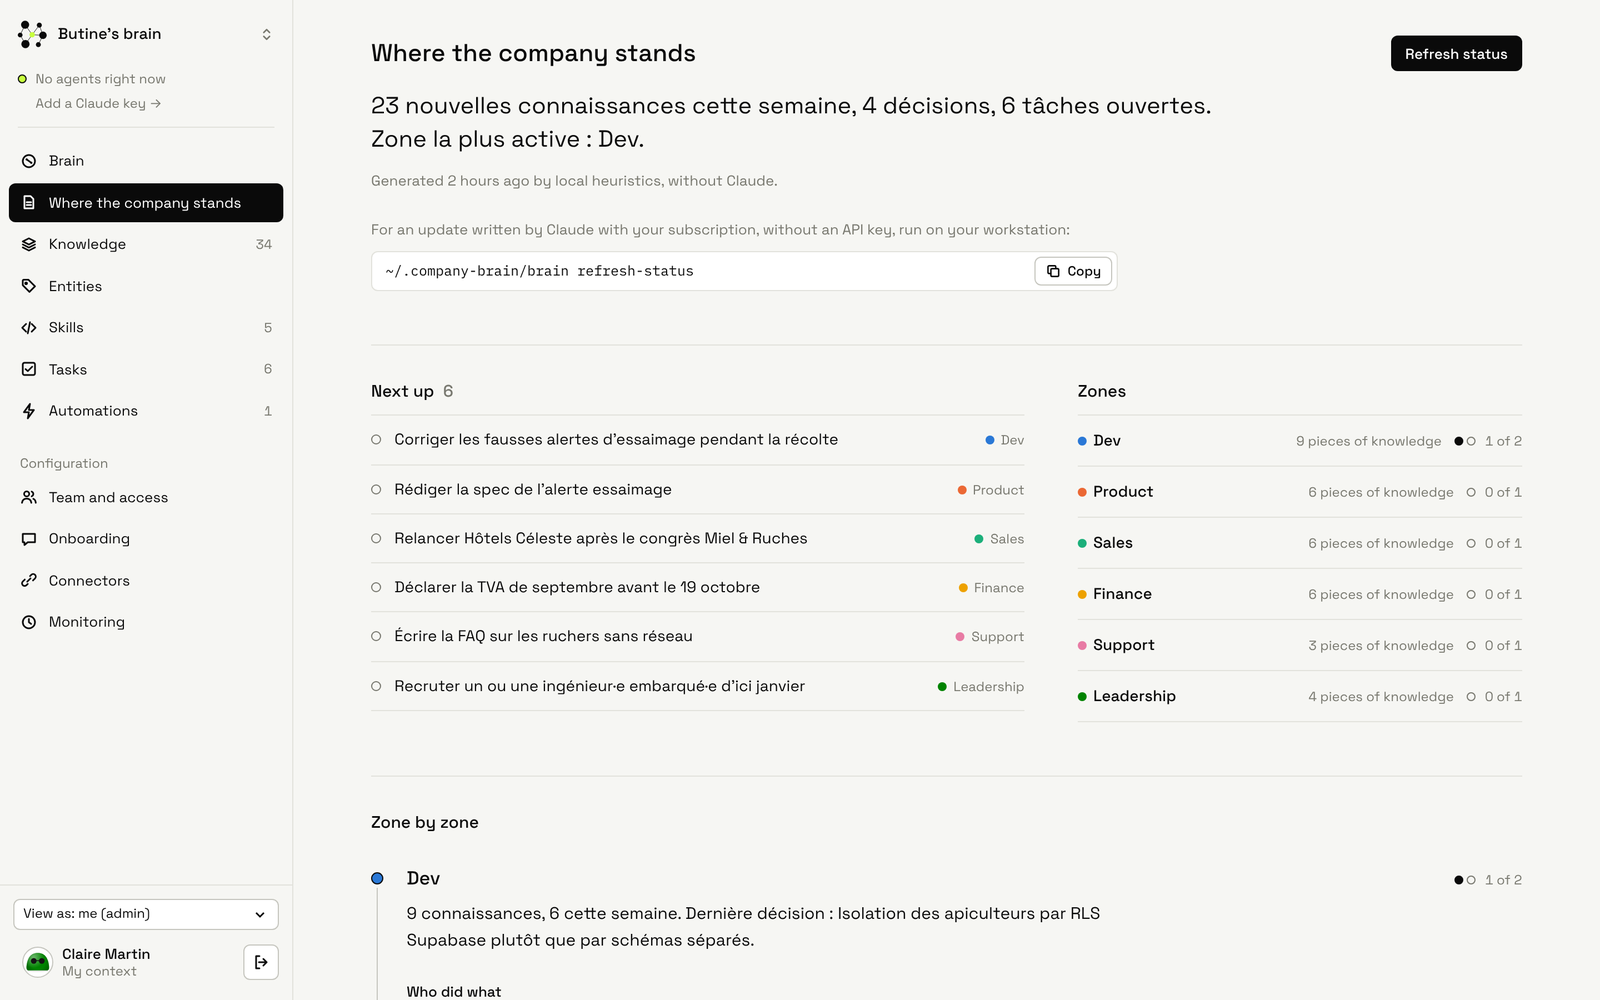
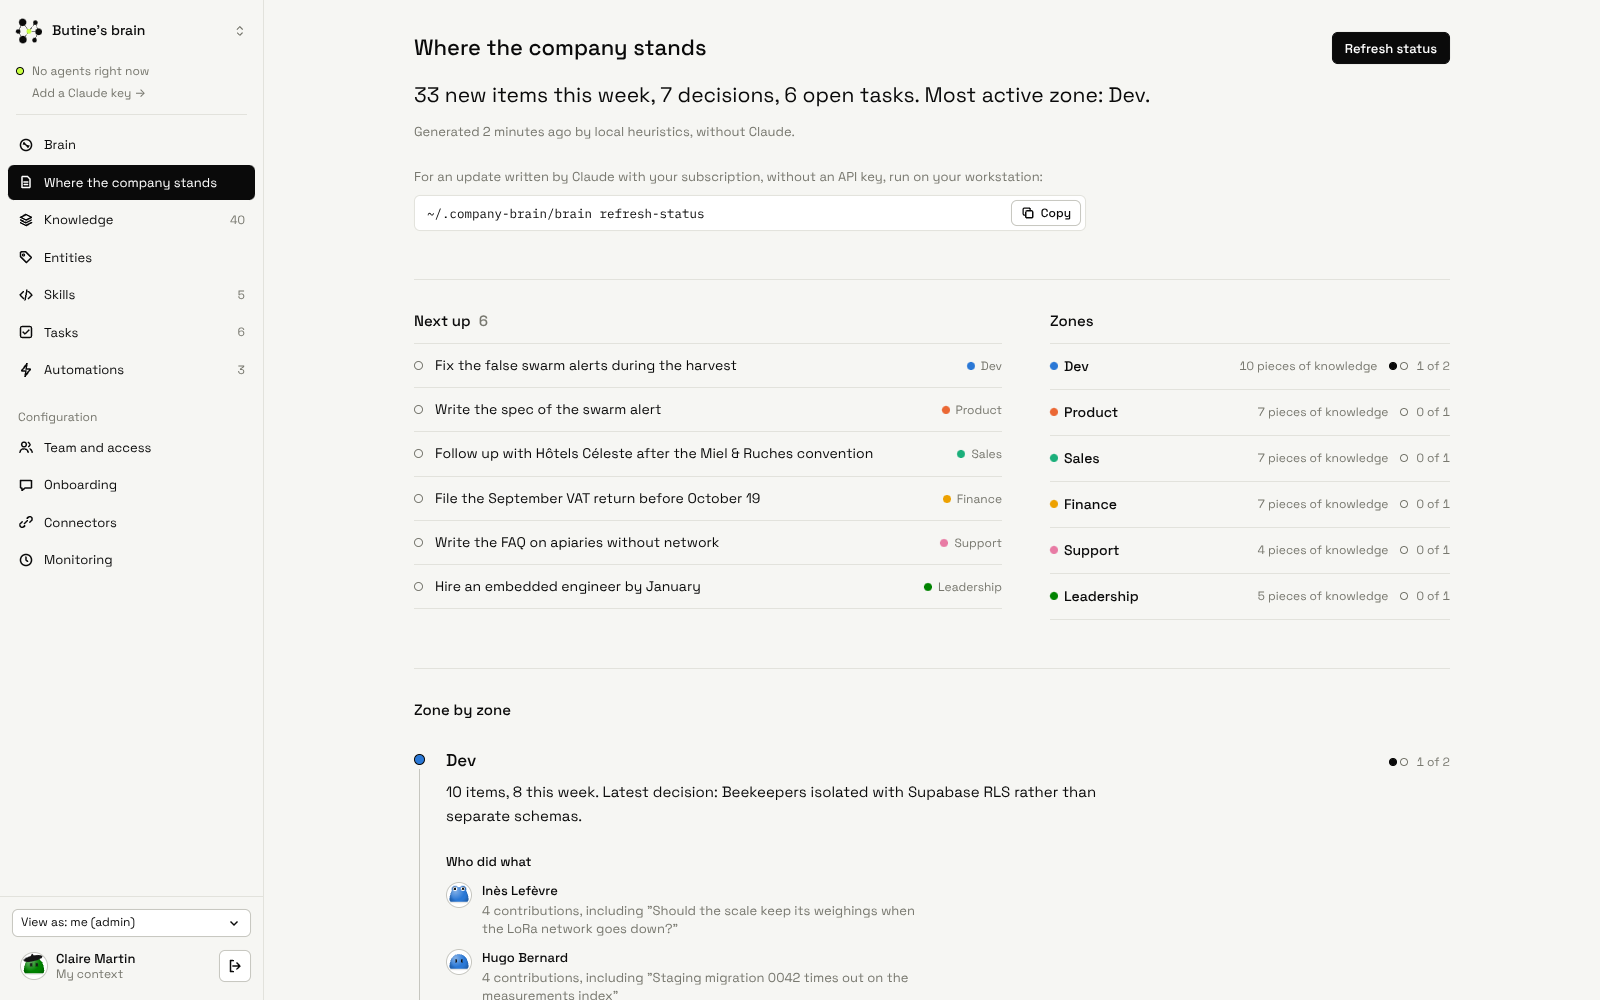
docs: captures du README en anglais, ce que seul Screenpipe voit, script de démo à jour
- Captures du README refaites sur le site en ligne, désormais en anglais : cerveau (fil avec
  « Meeting distilled » et « Screenpipe agent found »), état de l'entreprise, équipe ; nouvelle capture
  des connaissances venues de ChatGPT dans Chrome, d'un appel Zoom et de l'agent Screenpipe, sous le
  tableau « How Screenpipe is used ».
- demo/DEMO.md : l'étape 5 passait par la barre « Ask the brain », retirée du dashboard (#59) : la
  démonstration des accès par zone passe par la recherche de Knowledge en « View as: Jean-Marc ».
  Chiffres de l'automatisation alignés sur la démo en ligne.
- captures.mjs : plus d'étape « question » (même raison), capture des automatisations à la place de
  /activity, qui redirige vers le dashboard.
- core : « run it automatically monday to Friday » gardait la minuscule du français ; seul « Every »
  passe en minuscule dans la phrase (test ajouté).

Claude-Session: https://claude.ai/code/session_012cKbX3kEDKUmkkfcuhyrEf

diff --git a/packages/core/src/automation.ts b/packages/core/src/automation.ts
@@ -92,7 +92,7 @@ export function detectAutomations(
       title: `Automate "${truncate(sample, 70)}"`,
       description:
         `${person} runs this prompt ${plan.rhythm} around ${hhmm(med)} ` +
-        `(${list.length} times over ${days.length} days). Suggestion: run it automatically ${lowerFirst(plan.schedule)} ` +
+        `(${list.length} times over ${days.length} days). Suggestion: run it automatically ${inSentence(plan.schedule)} ` +
         `and have the result waiting when they arrive, to free up the start of their day.`,
       schedule: plan.schedule,
       evidence: { occurrences: list.length, days: days.length, sample: truncate(sample, 200), times: days.map((d) => hhmm(d.minutes)) },
@@ -105,9 +105,9 @@ export function detectAutomations(
 
 const WEEKDAYS = ["Sunday", "Monday", "Tuesday", "Wednesday", "Thursday", "Friday", "Saturday"]
 
-/** "Every Monday at 09:00" → "every Monday at 09:00" (day names keep their capital). */
-function lowerFirst(s: string): string {
-  return s.charAt(0).toLowerCase() + s.slice(1)
+/** The schedule inside a sentence: "Every Monday at 09:00" → "every Monday at 09:00"; day names keep their capital. */
+function inSentence(schedule: string): string {
+  return schedule.replace(/^Every /, "every ")
 }
 
 function joinList(xs: string[]): string {

diff --git a/packages/core/src/zones-automation.test.ts b/packages/core/src/zones-automation.test.ts
@@ -41,6 +41,7 @@ test("automation: the suggested slot follows the real rhythm (weekly, twice a we
   const d = detectAutomations(daily, people, { now: new Date("2026-10-16T12:00:00Z") })
   assert.equal(d[0].schedule, "Monday to Friday at 08:55")
   assert.match(d[0].description, /almost every day/)
+  assert.match(d[0].description, /run it automatically Monday to Friday at 08:55/, "day names keep their capital")
   assert.equal(d[0].minutes_saved_per_week, 60)
   assert.equal(planSchedule([{ weekday: 1, e: { at: "2026-10-05T07:00:00Z" } }, { weekday: 3, e: { at: "2026-10-28T07:00:00Z" } }], "09:00").runsPerWeek, 1)
 })

diff --git a/demo/DEMO.md b/demo/DEMO.md
@@ -25,11 +25,11 @@ Online version: https://www.nos-brainer.tech (demo mode, fictitious data, seeded
 
 4. **What only Screenpipe sees (45 s).** In "Knowledge", the items that no log could have given: Monday's team meeting distilled into a decision ("the cooperative beta starts on November 4"), Sarah's call with Miel du Vexin and her written promise, Jean-Marc's VAT procedure worked out with ChatGPT in the browser, and what the computer's Screenpipe agent found by itself (Hugo's staging migration failing three times). In "Live agents": "Meeting distilled (Zoom)…", "Screenpipe agent found…". "Without Screenpipe, the brain would only hear the developers' terminals."
 
-5. **Per-zone access (60 s).** In the top bar: "View as: Jean-Marc Dubois". The brain locks except Finance. Ask "how do we deploy to production?" → nothing, and the banner says the Dev zone might know more but is closed to him. Ask "Qonto reconciliation" → the procedure, and only the Finance zone lights up. Go back to admin.
+5. **Per-zone access (60 s).** Bottom left: "View as: Jean-Marc Dubois". The brain locks every zone except Finance. In "Knowledge", search "deploy" → nothing, the Dev procedures are closed to him; search "Qonto" → the daily Qonto ↔ Pennylane reconciliation. His agents get exactly these rights through the MCP. Go back to "View as: me".
 
 6. **Where the company stands (45 s).** Goals, progress, next steps and who did what, per zone. For a version written by Claude with your subscription: before the demo, run `~/.company-brain/brain refresh-status` on the admin computer (the "Refresh the status" button recomputes the heuristic version on the server). Also show "View as: Jean-Marc": Jean-Marc only gets finance, with a headline computed on his zone.
 
-7. **The automation (45 s).** The green card: "Jean-Marc runs this prompt almost every day around 09:07 (6 times over 6 days) → run it automatically Monday to Friday at 09:02". Detected from the prompt fingerprints sent by the hooks, without storing the raw text. "Set it up". Below it, two cards marked as detected by Screenpipe: Sarah copies the trade-show leads into HubSpot every Monday, Léo sorts the App Store reviews into Linear every Friday. "One computer sees one habit; the brain sees them across the team."
+7. **The automation (45 s).** The first card: "Jean-Marc runs this prompt almost every day around 09:03 (5 times over 5 days) → run it automatically Monday to Friday at 08:58" (the live demo's figures; a reseed recomputes them). Detected from the prompt fingerprints sent by the hooks, without storing the raw text. "Set it up". Below it, two cards marked as detected by Screenpipe: Sarah copies the trade-show leads into HubSpot every Monday, Léo sorts the App Store reviews into Linear every Friday. "One computer sees one habit; the brain sees them across the team."
 
 8. **The skills (30 s).** "Skills" tab: Butine's know-how ready for Claude Code, with their scripts (`deploy-butine` and its `release.sh`). "View as: Jean-Marc": he only gets the whole company's skill and those of the Finance cortex, and his computer installs them on its own. In `/admin`, the "Publishes skills" column: pushing a skill needs a permission.
 

diff --git a/README.md b/README.md
@@ -48,12 +48,17 @@ the browser chats of sales and finance, the meetings and the repeated workflows 
 | **A native pipe** | `brain install-pipe` writes the `brain-sync` pipe: the sync runs from Screenpipe every 15 minutes and after each meeting | `apps/client/src/install.ts` |
 | **Privacy by design** | The raw capture never leaves the computer; `sync --dry-run --full` shows exactly what would be sent | `apps/client/src/sync.ts` |
 
+![What only Screenpipe sees: knowledge distilled from a ChatGPT chat in Chrome, a Zoom call and the Screenpipe agent](docs/screenshots/screenpipe-knowledge.png)
+
+**What only Screenpipe sees**, in the demo's Knowledge page: an answer found with ChatGPT in Chrome, a Zoom call with a
+customer, and what the Screenpipe agent found in Hugo's terminal and Vercel dashboard. No log holds any of it.
+
 ## Screenshots
 
 | | |
 |---|---|
 | ![Create your company](docs/screenshots/create-company.png) **Create your company**: three questions, Claude proposes the zones, then one prompt per colleague. | ![Where the company stands](docs/screenshots/company-status.png) **Where the company stands**: per zone, from what the team actually did. |
-| ![Team and access](docs/screenshots/team-access.png) **Team and access**: org chart, zones per person, invitations. | ![Automations](docs/screenshots/automations.png) **Automations**: a prompt run every morning at 09:04, proposed to run itself at 08:59. |
+| ![Team and access](docs/screenshots/team-access.png) **Team and access**: org chart, zones per person, invitations. | ![Automations](docs/screenshots/automations.png) **Automations**: a prompt Jean-Marc runs every morning, and two workflows Screenpipe detected on Sarah's and Léo's computers. |
 
 ## Reproduce the demo
 
